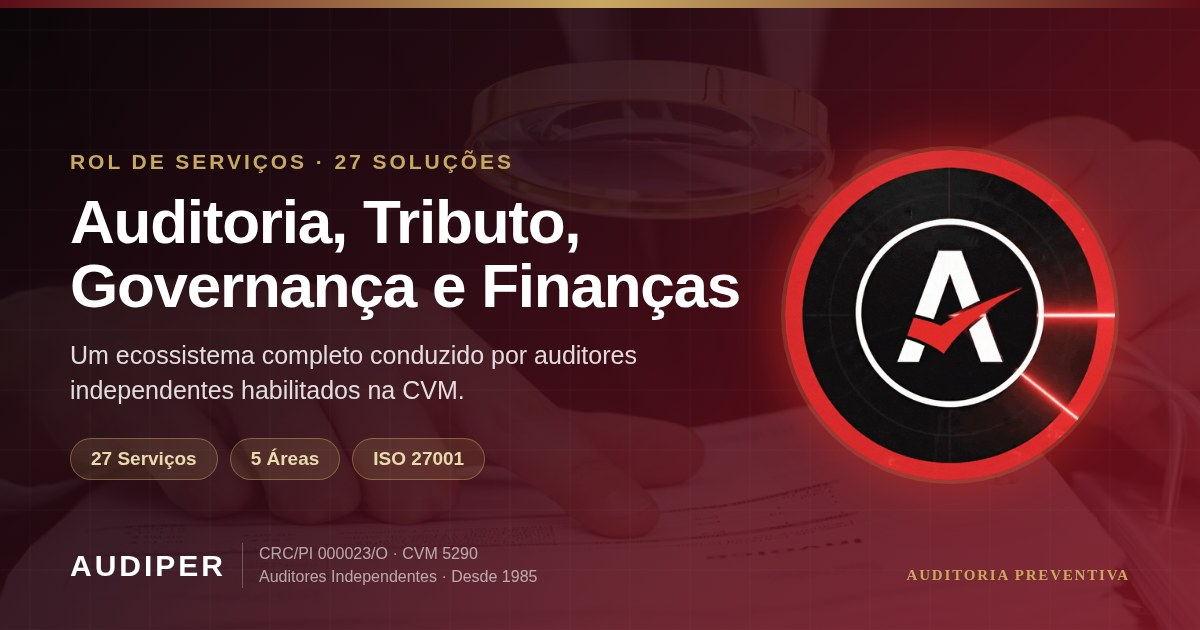
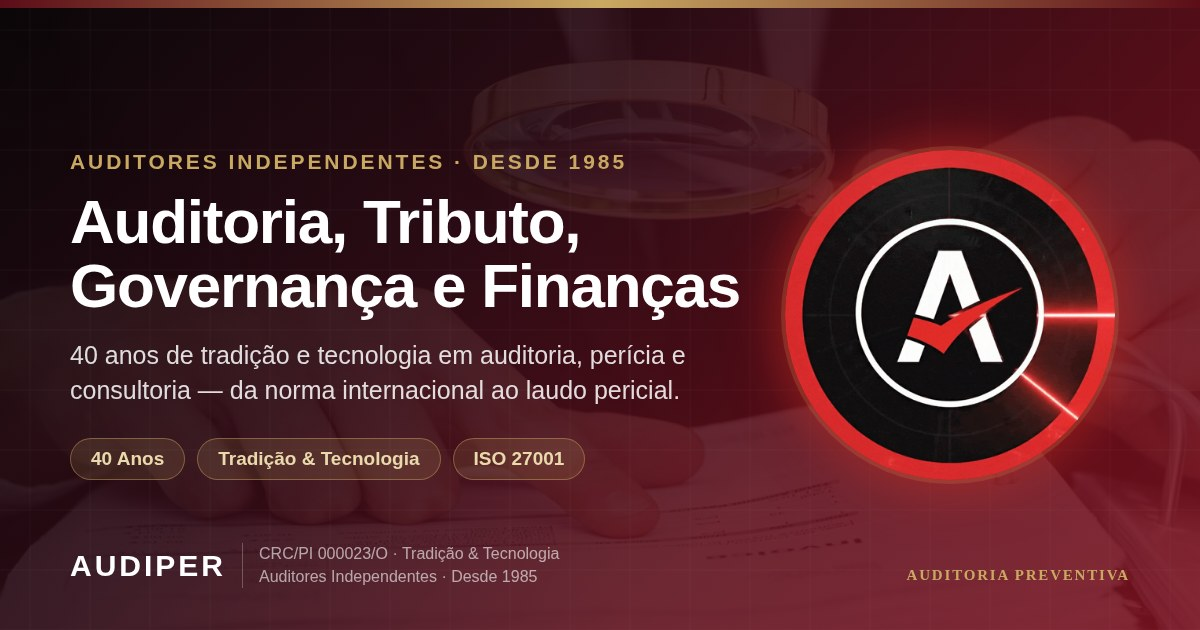
feat(servicos): copy de compartilhamento marketing (40 anos · Tradição & Tecnologia), sem CVM

diff --git a/servicos/index.html b/servicos/index.html
@@ -4,7 +4,7 @@
 <meta name="description" content="Rol completo de serviços AUDIPER: auditoria independente, IFRS/CPC, tributário, governança, valuation, M&A, ISO 27001, LGPD e perícia. 40 anos · CVM 5290.">
 <meta property="og:type" content="website">
 <meta property="og:title" content="AUDIPER — Soluções de Auditoria, Tributo, Governança e Finanças">
-<meta property="og:description" content="26 serviços em 5 áreas. Da norma internacional ao laudo pericial. Auditoria Preventiva. Risco Mapeado, Risco Controlado. ISO 27001.">
+<meta property="og:description" content="40 anos de tradição e tecnologia em auditoria, perícia e consultoria — da norma internacional ao laudo pericial. Auditoria Preventiva. ISO 27001.">
 <meta property="og:url" content="https://audiper.com/servicos/">
 <meta property="og:image" content="https://audiper.com/servicos/assets/og-servicos.jpg?v=2">
 <meta property="og:image:secure_url" content="https://audiper.com/servicos/assets/og-servicos.jpg?v=2">
